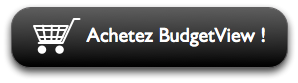
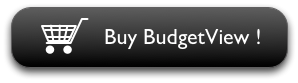
Traduction du site en anglais (en cours)

Changed region(s): [[0.0906, 0.2169, 0.906, 0.6506]]

diff --git a/picsou/picsou/website/en/content/front_page.html b/picsou/picsou/website/en/content/front_page.html
@@ -10,11 +10,11 @@
       <tr>
         <td>
           <div id="text">
-            <h1>Your budget<br/><span id="second">in the blink of an eye!</span></h1>
+            <h1>Your budget<br/>in the blink of an eye!</h1>
 
             <h2>Organize your budget<br/>in just a few clicks.</h2>
 
-            <h2>Plan and monitor your spending<br/>to save money...<br/>
+            <h2>Plan and monitor your spendings<br/>to save money...<br/>
               and realize your projects!</h2>
             <a href="/telechargement">
               <img src="files/images/front/try_button.png" alt="Try now!"
@@ -69,9 +69,9 @@
             <img src="files/images/front/separator_left.png" width="9" height="83"/>
           </td>
           <td class="right">
-            <h2>Visualize what's essential</h2>
-            <p>With BudgetView, forget about the long listings of operations you'll find everywhere.<br/>
-              Visualize all you budget on a single screen, as a set of easy to monitor envelopes:
+            <h2>Visualize the essential</h2>
+            <p>With BudgetView, forget about the long listings of operations you'll find everywhere.
+              Visualize all you budget on a single screen, as a set of simple envelopes:
               income, groceries, leisures, etc.</p>
           </td>
         </tr>
@@ -81,7 +81,7 @@
       <table id="budget" class="image-and-text" style="margin-top: -30px;width: 95%;">
         <tr>
           <td class="left align-right">
-            <h2>Your savings and your projects first!</h2>
+            <h2>Your projects first!</h2>
             <p>At the beginning of each month, prepare your budget to leave some room for your savings
               and your projects. The ideal solution: a fixed transfer to your savings accounts, to
               pay yourself first! BudgetView will then help you tune your spending to avoid any overdraw.</p>

diff --git a/picsou/picsou/website/en/sites_all_themes/mybudgetview/mycss/mybudgetview.css b/picsou/picsou/website/en/sites_all_themes/mybudgetview/mycss/mybudgetview.css
@@ -785,7 +785,7 @@ table.field-value td.value {
 #home div#text h1 {
   font-family: helvetica, arial, sans-serif;
   color: #333;
-  font-size: 38px;
+  font-size: 32px;
   letter-spacing: -1px;
   line-height: 1.1em;
   margin: 20px 0px 20px;
@@ -793,11 +793,6 @@ table.field-value td.value {
   text-align: center;
   text-shadow: white 0 2px 0;
 }
-
-#home div#text h1 span#second {
-  font-size: 34px;
-}
-
 
 #home div#text h2 {
   color: #444;

diff --git a/picsou/picsou/website/en/content/presentation.html b/picsou/picsou/website/en/content/presentation.html
@@ -33,7 +33,7 @@
   <hr/>
 
   <div id="close">
-    <p>What are you waiting for?</p>
+    <p>So what are you waiting for?</p>
     <a href="/telechargement">
       <img src="files/images/front/try_button.png" alt="Try now!"
            width="248" height="65"/>
